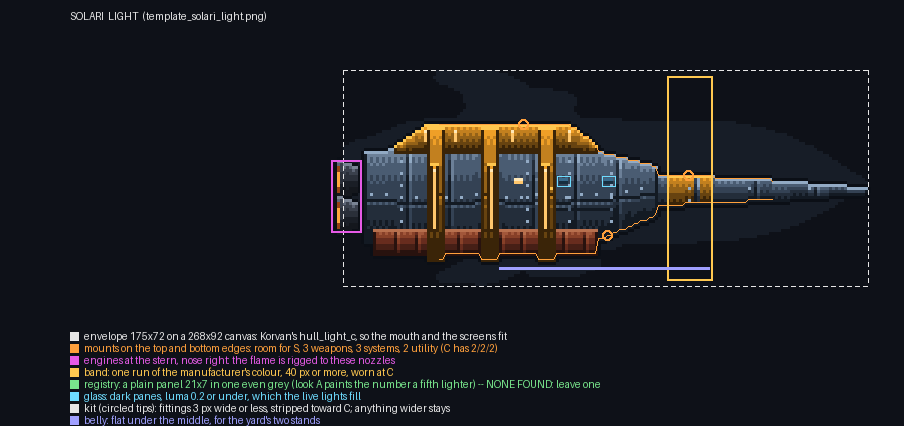
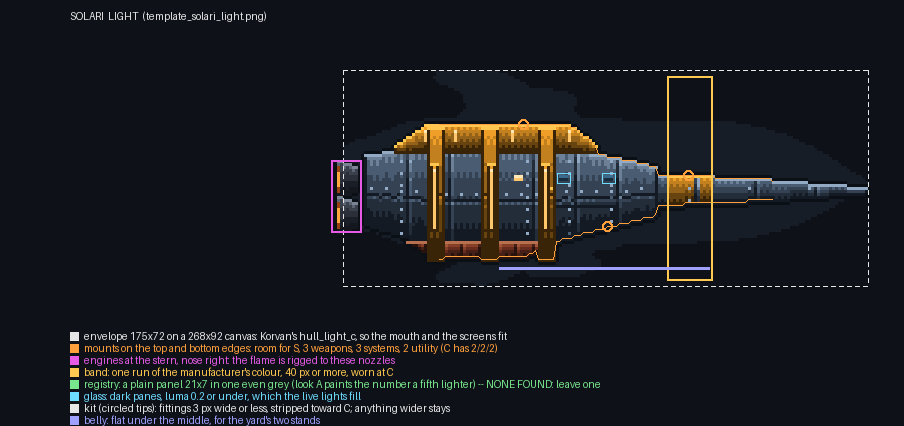
Hull templates: Flare gets the curved belly and blade keel too (Jon: K3)
Claude-Session: https://claude.ai/code/session_01FQemMvme1wfvjCSMpMkDgS

diff --git a/tkg/art/tools/hull_template.py b/tkg/art/tools/hull_template.py
@@ -152,9 +152,9 @@ SPECS = {
  'solari': {
   'light': {'parts': [
      P(('prof', [(.44, .47, .65), (.8, .51, .61), (1, .55, .57)]), seams=20, rivets=True, band=(.62, .70)),
-     P(('prof', [(.04, .38, .80), (.28, .34, .84), (.48, .38, .80), (.60, .45, .68)]), seams=14, rivets=True, belt=.55,
+     P(('prof', [(.04, .40, .72), (.18, .34, .82), (.38, .35, .82), (.50, .40, .74), (.60, .45, .68)]), seams=14, rivets=True, belt=.55,
        ports=[(.32, .45, .9, 3, 3, 2, 1)], hatch=[(.6, .6, .85, .85)]),
-     P(('rect', .06, .74, .48, .86), 'brick', seams=7)] + crest(.12, .44, .34, 6) + rings(.12, .44, .34, .84, 3),
+     P(('poly', [(.12, .80), (.40, .80), (.35, .87), (.17, .87)]), 'brick', seams=6)] + crest(.12, .44, .34, 6) + rings(.12, .44, .34, .84, 3),
    'kit': [],
    'noz': [(.50, .12), (.68, .12)]},
   'medium': {'parts': [
